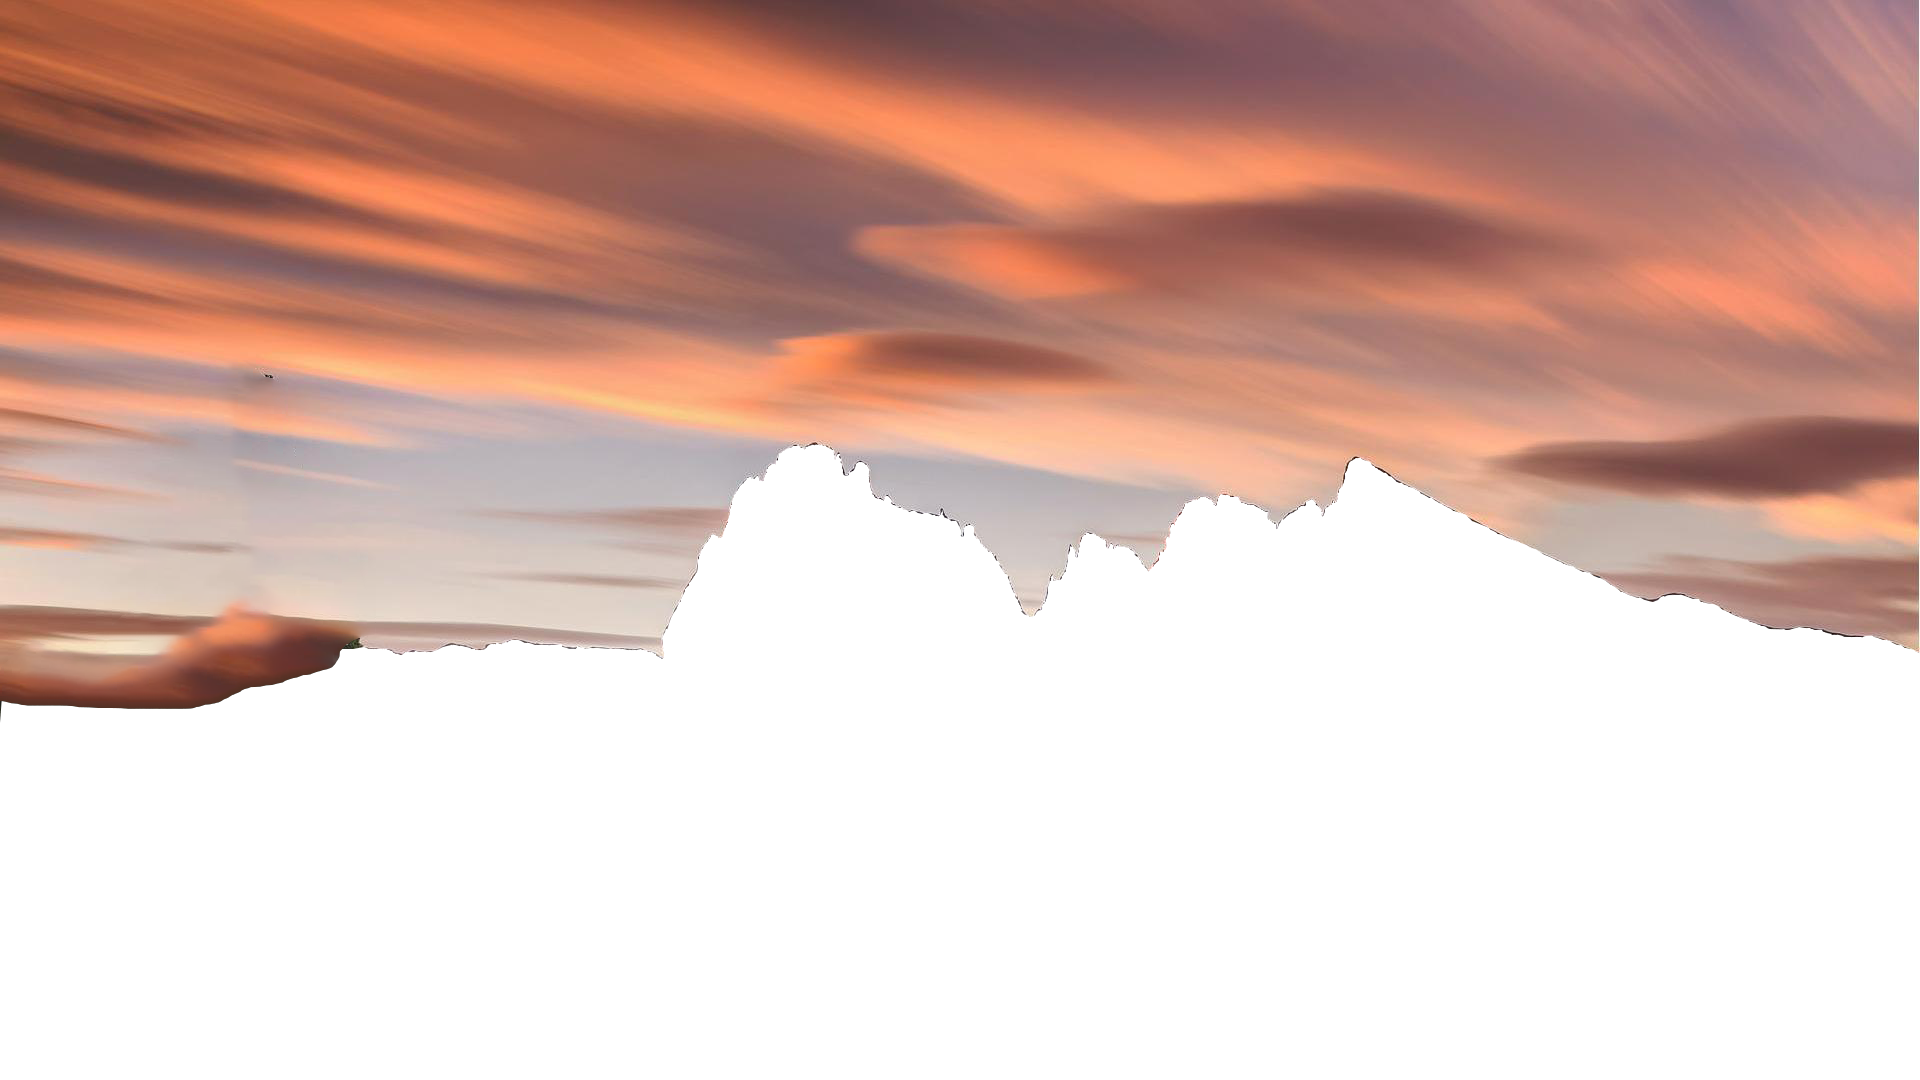
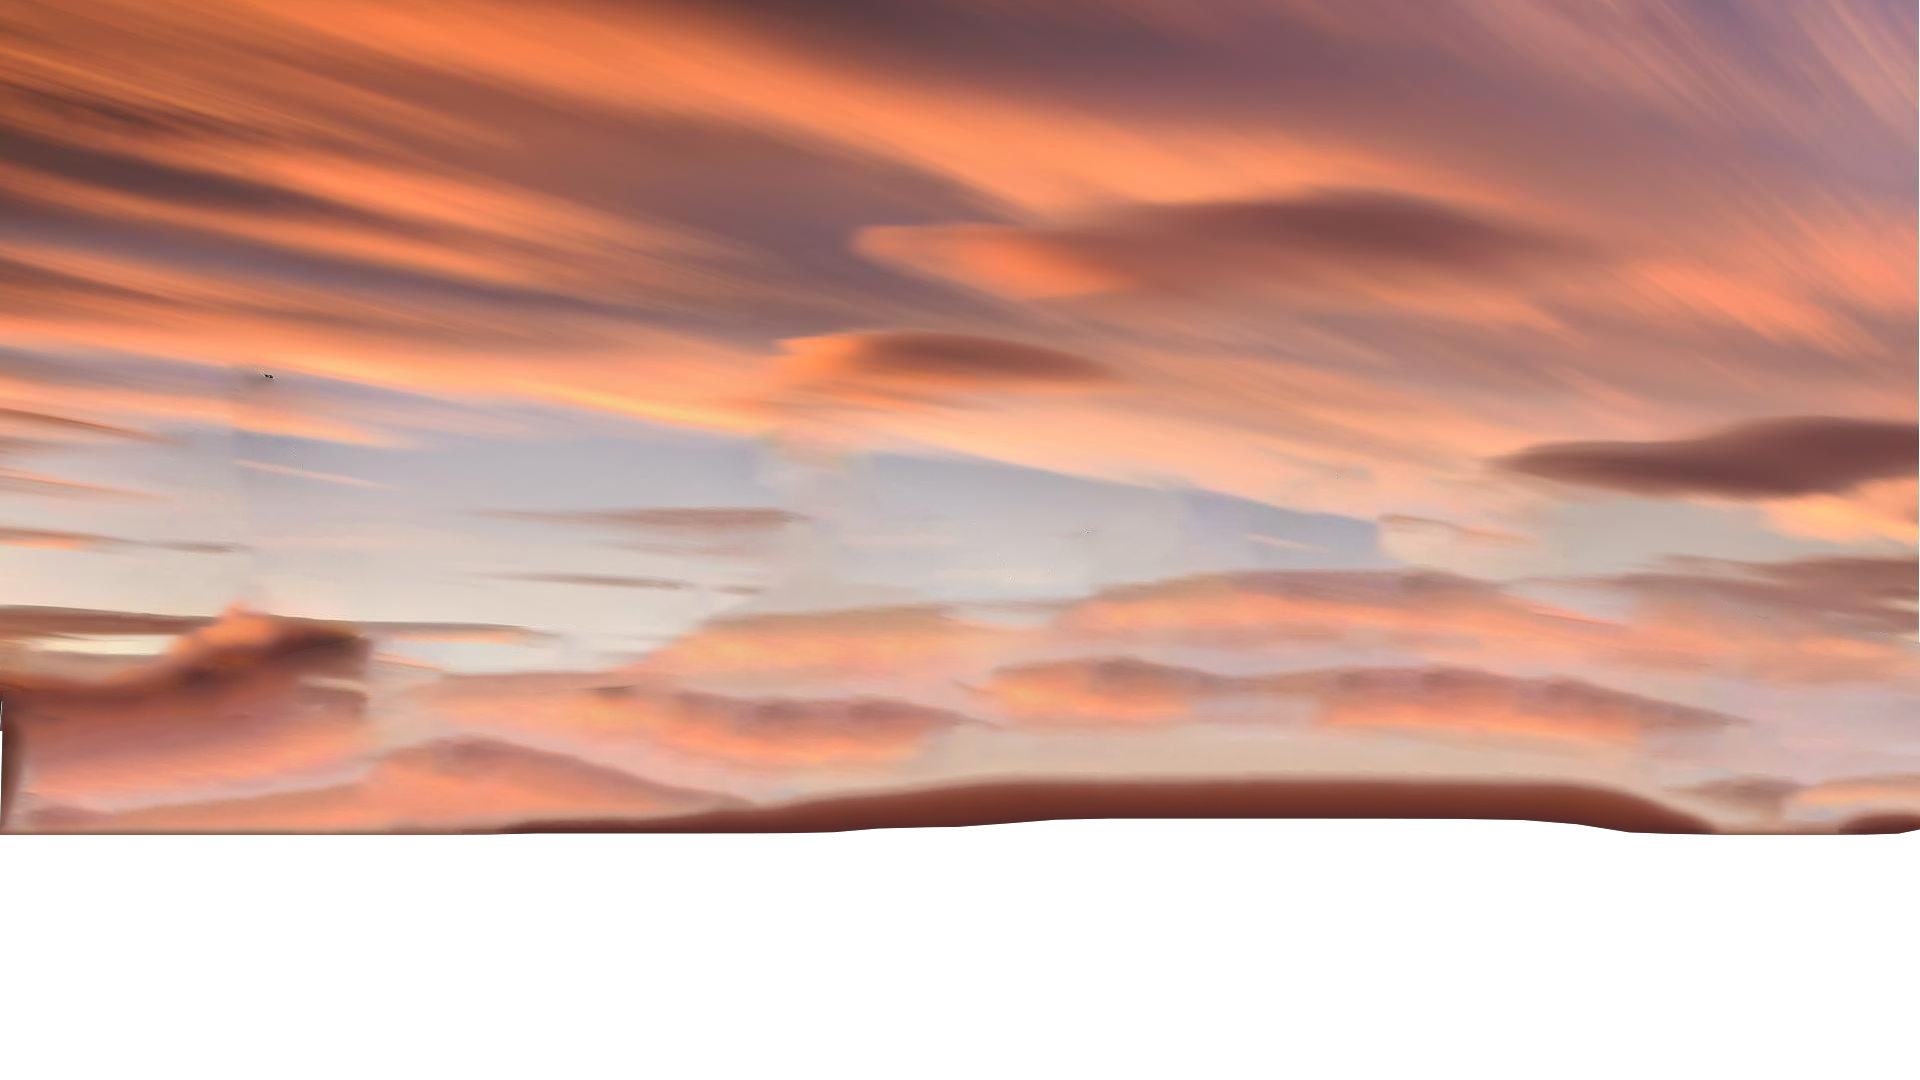
modifica 3

Changed region(s): [[0.0, 0.3972, 1.0, 0.7944]]

diff --git a/style.css b/style.css
@@ -1,3 +1,7 @@
+
+
+
+
 @import url('https://fonts.googleapis.com/css2?family=Poppins:wght@300;400;600&display=swap');
 
 *{
@@ -34,44 +38,37 @@ header:after{
     z-index: 25;
 }
 
+
+
+
+
 .mountain1{
     position: absolute;
-    bottom: -100px;
-    width: 1500px;
-    right: 0;
-    z-index: 19;
-}
-
-.person{
-    position: absolute;
-    width: 650px;
-    bottom: -100px;
-    left: -70px;
+    width: 100%;
     z-index: 20;
 }
 
 .mountain2{
     position: absolute;
-    width: 1100px;
-    bottom: -100px;
-    left: 0;
-    z-index: 18;
+    width: 100%;
+    right: 0;
+    z-index: 19;
 }
 
 .mountain3{
     position: absolute;
-    width: 900px;
-    bottom: 150px;
+    width: 100%;
+    left: 0;
+    z-index: 18;
+}
+
+.mountain4{
+    position: absolute;
+    width: 100%;
     right: 0;
     z-index: 17;
 }
 
-.sky{
-    position: absolute;
-    width: 2100px;
-    bottom: 250px;
-    right: 0;
-}
 
 nav{
     position: absolute;
@@ -204,7 +201,6 @@ section .container > *{
     width: 100%;
     left: 0;
     z-index: 20;
-    background: linear-gradient(to top, #151515, transparent);
 }
 
 .opacity{

diff --git a/index.html b/index.html
@@ -23,10 +23,10 @@
 
     <h1 class="big-title translate" data-speed="0.1">Discover.</h1>
 
-    <img src="immagini/bghero-1.png" class="person translate" data-speed="-0.25" alt="">
-    <img src="immagini/bghero-2.png" class="mountain1 translate" data-speed="-0.2" alt="">
-    <img src="immagini/bghero-3.png" class="mountain2 translate" data-speed="0.4" alt="">
-    <img src="immagini/bghero-4.png" class="mountain3 translate" data-speed="0.3" alt="">
+    <img src="immagini/bghero-1.png" class="mountain1 translate" data-speed="-0.25" alt="">
+    <img src="immagini/bghero-2.png" class="mountain2 translate" data-speed="-0.2" alt="">
+    <img src="immagini/bghero-3.png" class="mountain3 translate" data-speed="0.4" alt="">
+    <img src="immagini/bghero-4.png" class="mountain4 translate" data-speed="0.2" alt="">
     
 </header>
 
